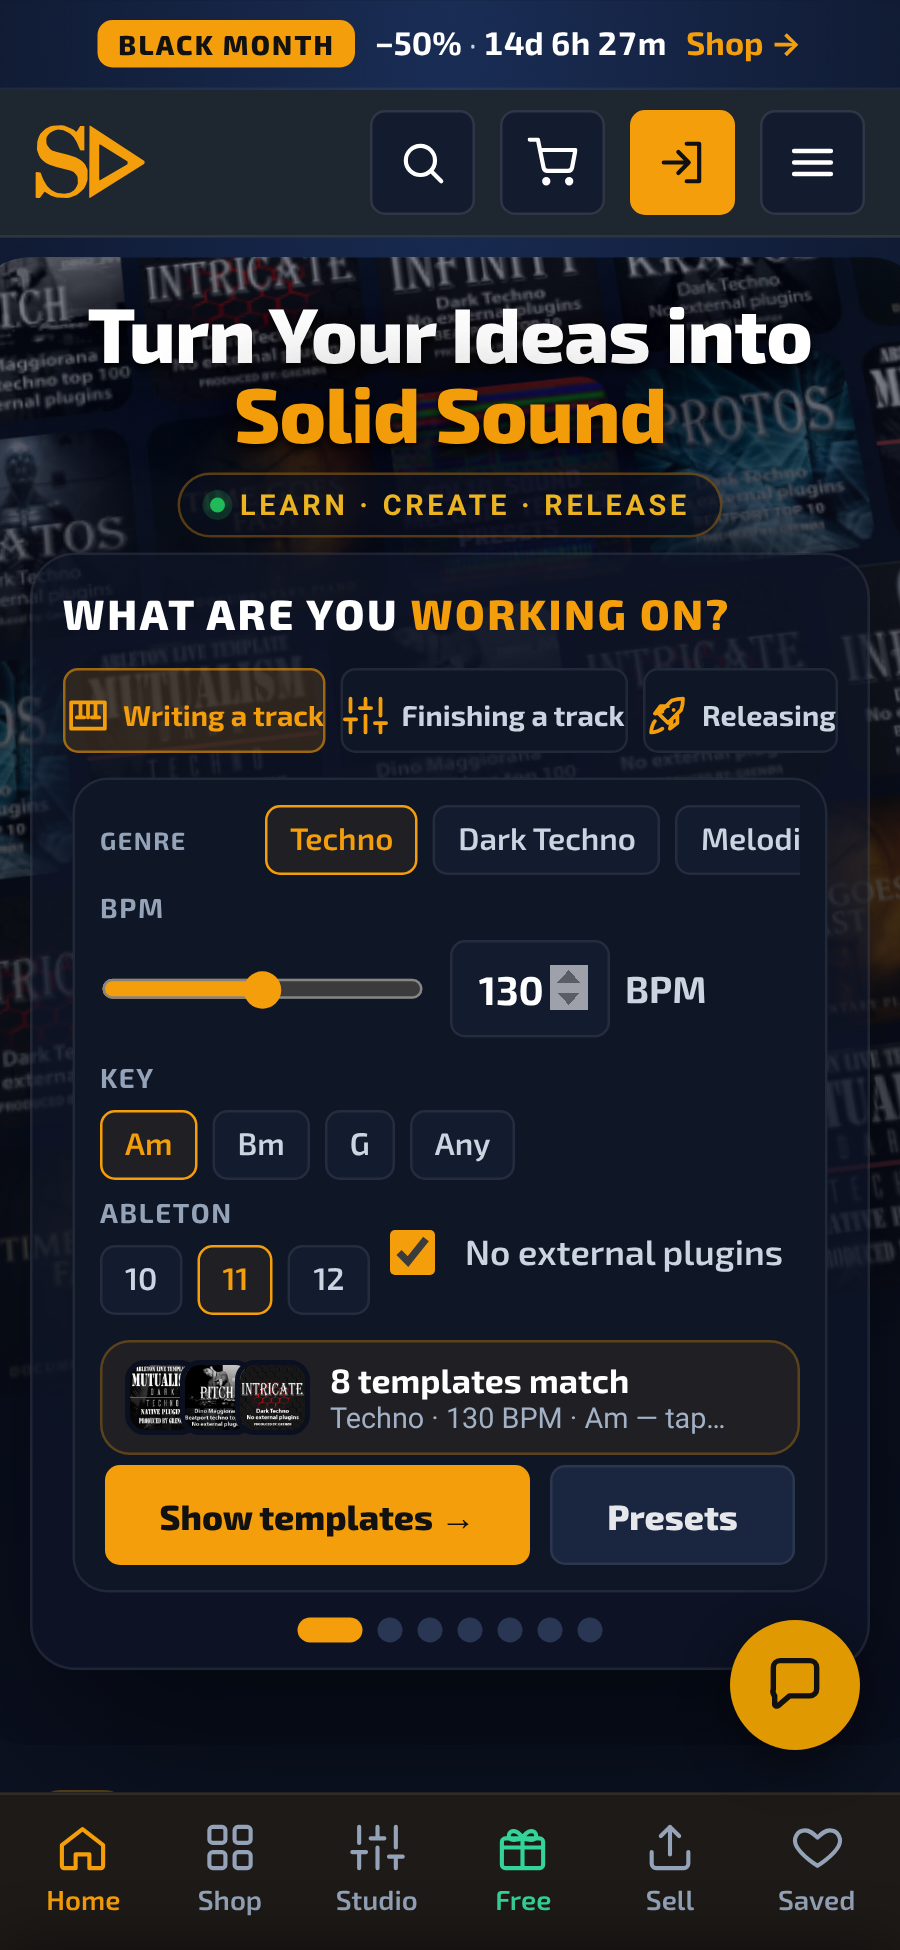
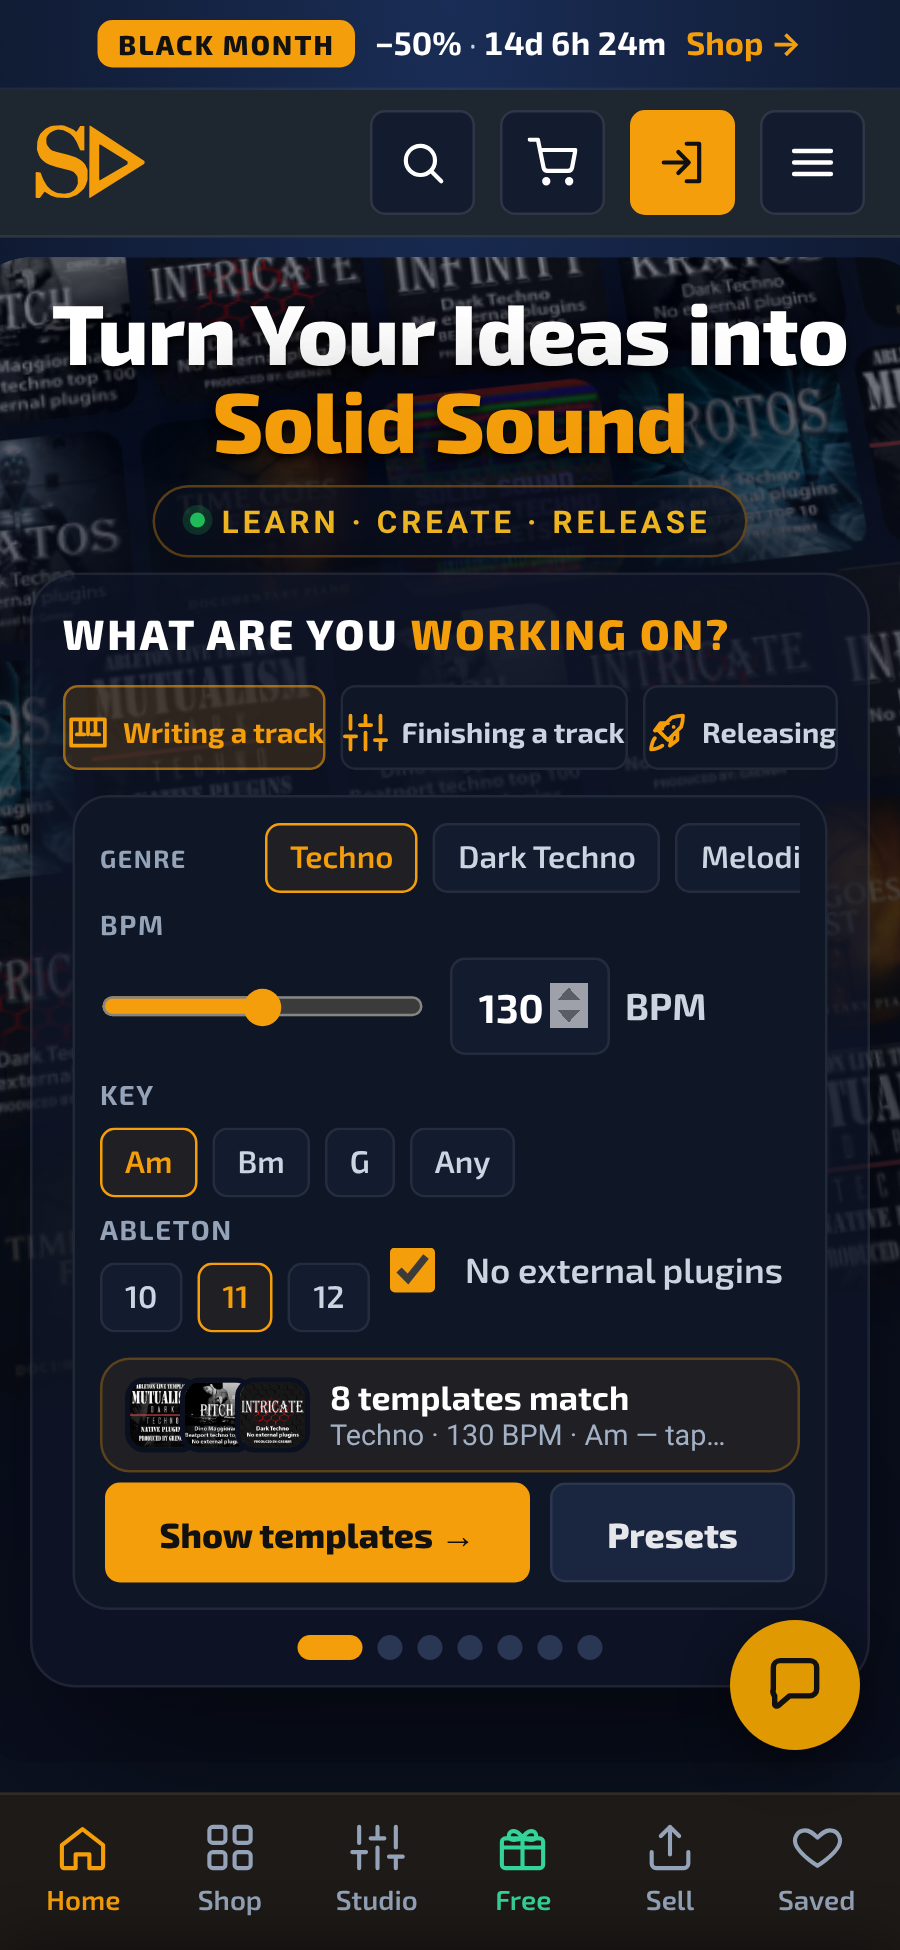
Home phones: top block a touch bigger
Claude-Session: https://claude.ai/code/session_01JfK5zSDYR2btK9FRr3xgU6

diff --git a/plugin/solid-sound-custom/build/modules/home-wow.php b/plugin/solid-sound-custom/build/modules/home-wow.php
@@ -78,15 +78,15 @@ body.ss-wow .ssx{position:relative;z-index:2;background:rgba(15,22,40,.66)!impor
 .ssw-match b{display:block;color:#fff;font:700 14.5px "Exo 2",sans-serif}.ssw-match small{color:#a3b1c6;font:400 12.5px Roboto,sans-serif}
 /* owner 16.11 «Адаптируй нормально»: phones — compact hero so the assistant and its button stay on the first screen */
 @media(max-width:600px){
- .ssw-hero{padding:14px 8px 10px}
- .ssw-hero .slg{font-size:33px!important;line-height:1.04;margin:0 auto 8px;letter-spacing:-.3px}
- .ssw-hero .k{font-size:11.5px;letter-spacing:.13em;padding:5px 12px;gap:6px}.ssw-hero .k i{width:6px;height:6px;box-shadow:0 0 0 3px rgba(34,197,94,.2)}
+ .ssw-hero{padding:12px 6px 10px}
+ .ssw-hero .slg{font-size:36px!important;line-height:1.04;margin:0 auto 8px;letter-spacing:-.3px}
+ .ssw-hero .k{font-size:12.5px;letter-spacing:.13em;padding:6px 14px;gap:7px}.ssw-hero .k i{width:6px;height:6px;box-shadow:0 0 0 3px rgba(34,197,94,.2)}
  .ssw-row a{width:96px;height:96px;border-radius:12px}.ssw-row{gap:8px;margin-bottom:8px}
- body.ss-wow .ssx h1.ssx-t,body.ss-wow#top .ssx h1.ssx-t{font-size:15.5px!important;margin:0 0 8px!important}
+ body.ss-wow .ssx h1.ssx-t,body.ss-wow#top .ssx h1.ssx-t{font-size:17px!important;margin:0 0 8px!important}
  .ssw-match{gap:8px;padding:7px 9px;margin-top:10px}.ssw-match .cv img{width:30px;height:30px;margin-left:-8px}
  .ssw-match b{font-size:13.5px}.ssw-match small{font-size:11.5px;display:block;white-space:nowrap;overflow:hidden;text-overflow:ellipsis;max-width:calc(100vw - 200px)}.ssw-match>span:last-child{min-width:0;flex:1}
 }
-@media(max-width:380px){.ssw-hero .slg{font-size:31px!important}}
+@media(max-width:380px){.ssw-hero .slg{font-size:34px!important}}
 @media(min-width:900px){.ssw-hero{padding:34px 12px 22px}.ssw-row a{width:168px;height:168px}}
 @media(prefers-reduced-motion:reduce){.ssw-row{animation:none}}
 </style>

diff --git a/plugin/solid-sound-custom/src/modules/home-wow.php b/plugin/solid-sound-custom/src/modules/home-wow.php
@@ -78,15 +78,15 @@ body.ss-wow .ssx{position:relative;z-index:2;background:rgba(15,22,40,.66)!impor
 .ssw-match b{display:block;color:#fff;font:700 14.5px "Exo 2",sans-serif}.ssw-match small{color:#a3b1c6;font:400 12.5px Roboto,sans-serif}
 /* owner 16.11 «Адаптируй нормально»: phones — compact hero so the assistant and its button stay on the first screen */
 @media(max-width:600px){
- .ssw-hero{padding:14px 8px 10px}
- .ssw-hero .slg{font-size:33px!important;line-height:1.04;margin:0 auto 8px;letter-spacing:-.3px}
- .ssw-hero .k{font-size:11.5px;letter-spacing:.13em;padding:5px 12px;gap:6px}.ssw-hero .k i{width:6px;height:6px;box-shadow:0 0 0 3px rgba(34,197,94,.2)}
+ .ssw-hero{padding:12px 6px 10px}
+ .ssw-hero .slg{font-size:36px!important;line-height:1.04;margin:0 auto 8px;letter-spacing:-.3px}
+ .ssw-hero .k{font-size:12.5px;letter-spacing:.13em;padding:6px 14px;gap:7px}.ssw-hero .k i{width:6px;height:6px;box-shadow:0 0 0 3px rgba(34,197,94,.2)}
  .ssw-row a{width:96px;height:96px;border-radius:12px}.ssw-row{gap:8px;margin-bottom:8px}
- body.ss-wow .ssx h1.ssx-t,body.ss-wow#top .ssx h1.ssx-t{font-size:15.5px!important;margin:0 0 8px!important}
+ body.ss-wow .ssx h1.ssx-t,body.ss-wow#top .ssx h1.ssx-t{font-size:17px!important;margin:0 0 8px!important}
  .ssw-match{gap:8px;padding:7px 9px;margin-top:10px}.ssw-match .cv img{width:30px;height:30px;margin-left:-8px}
  .ssw-match b{font-size:13.5px}.ssw-match small{font-size:11.5px;display:block;white-space:nowrap;overflow:hidden;text-overflow:ellipsis;max-width:calc(100vw - 200px)}.ssw-match>span:last-child{min-width:0;flex:1}
 }
-@media(max-width:380px){.ssw-hero .slg{font-size:31px!important}}
+@media(max-width:380px){.ssw-hero .slg{font-size:34px!important}}
 @media(min-width:900px){.ssw-hero{padding:34px 12px 22px}.ssw-row a{width:168px;height:168px}}
 @media(prefers-reduced-motion:reduce){.ssw-row{animation:none}}
 </style>
